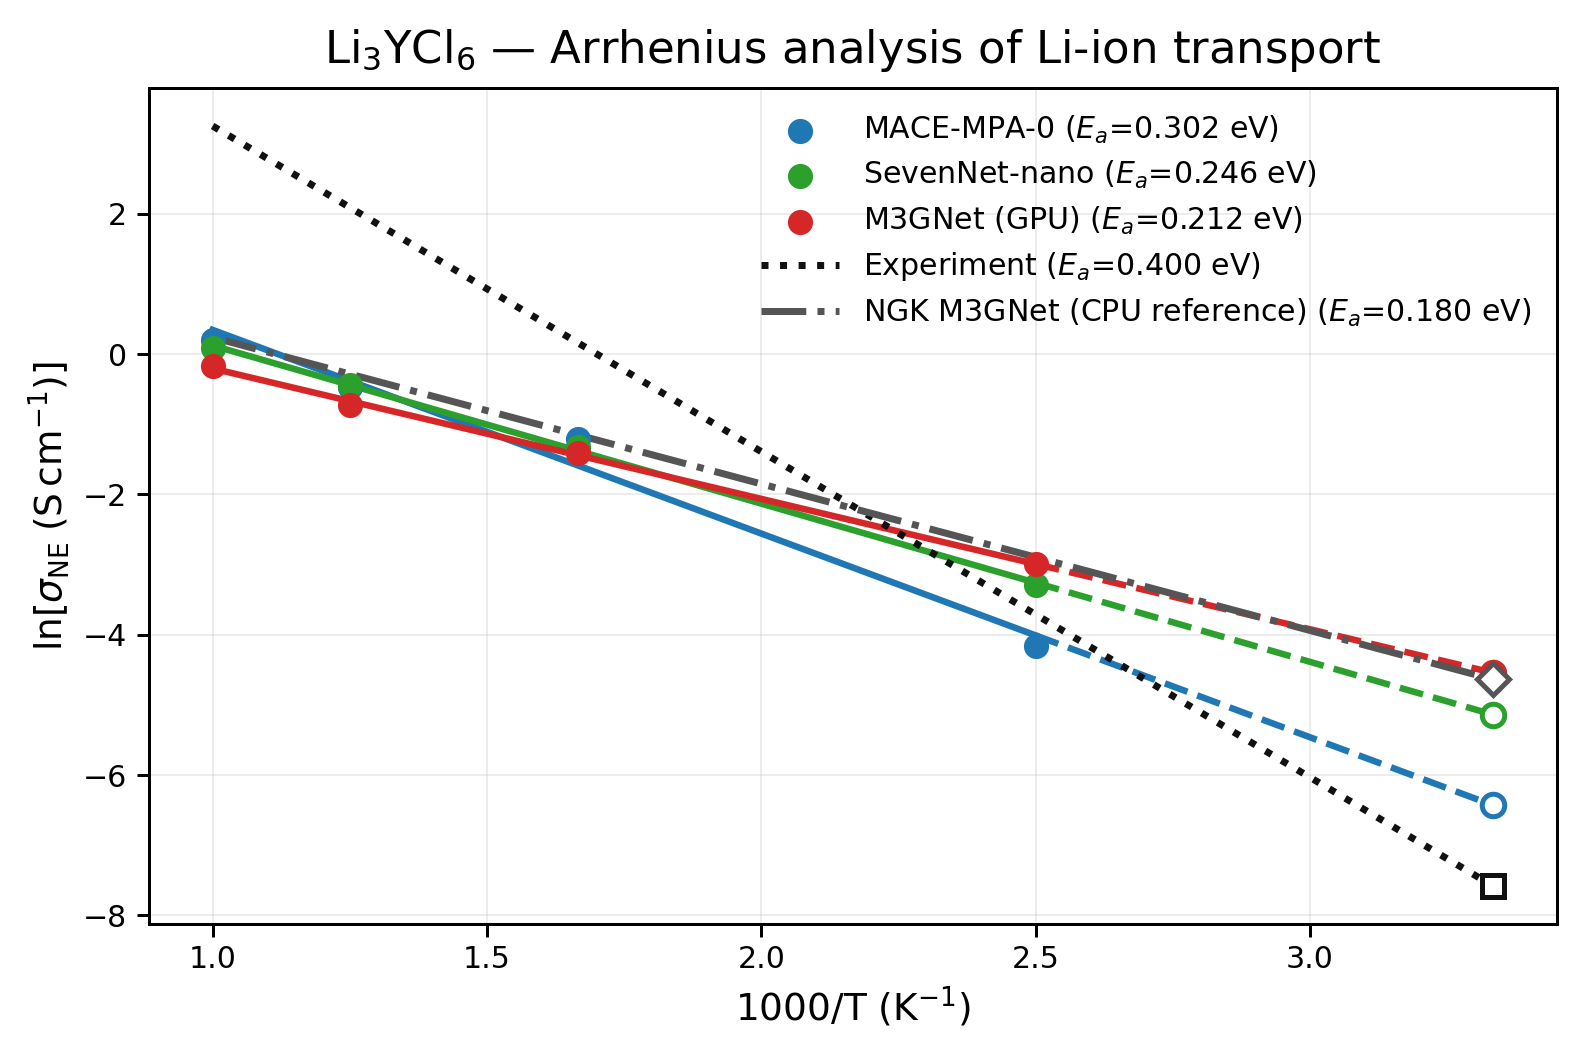
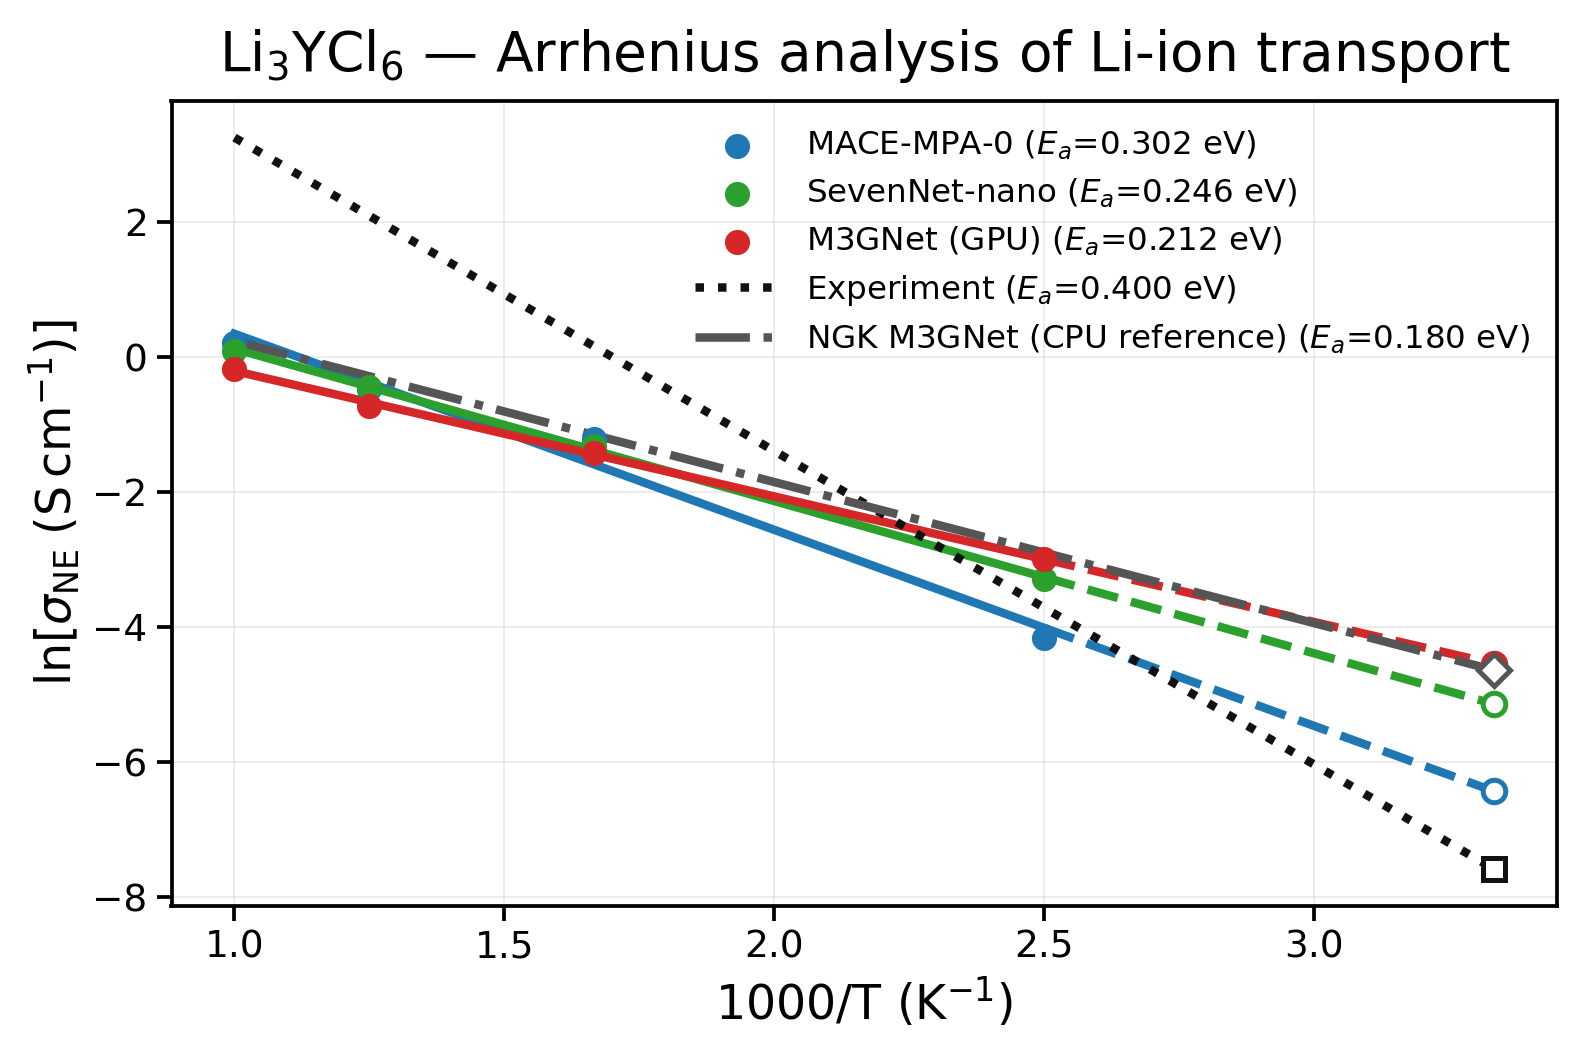
Increase Arrhenius figure typography and line weight

diff --git a/src/li_research/analysis/arrhenius/plot_li3ycl6_arrhenius_midterm.py b/src/li_research/analysis/arrhenius/plot_li3ycl6_arrhenius_midterm.py
@@ -22,12 +22,12 @@ for name, sigma, ea, color in models:
     y = np.log(sigma)
     slope, intercept = np.polyfit(x, y, 1)
     xx = np.linspace(x.min(), x.max(), 200)
-    ax.plot(xx, slope * xx + intercept, color=color, lw=2.6)
+    ax.plot(xx, slope * xx + intercept, color=color, lw=3.4)
     ax.scatter(x, y, color=color, s=82, zorder=3,
                label=fr"{name} ($E_a$={ea:.3f} eV)")
     x300 = 1000.0 / 300.0
     y300 = slope * x300 + intercept
-    ax.plot([x.max(), x300], [slope * x.max() + intercept, y300], color=color, lw=2.6, ls="--")
+    ax.plot([x.max(), x300], [slope * x.max() + intercept, y300], color=color, lw=3.4, ls="--")
     ax.plot(x300, y300, marker="o", ms=9, mfc="white", mec=color, mew=2.0)
 
 references = [
@@ -38,17 +38,17 @@ xx = np.linspace(1.0, 1000.0 / 300.0, 250)
 for name, sigma300, ea, color, marker, ls in references:
     y300 = np.log(sigma300)
     yline = y300 - (ea / kB) * (xx / 1000.0 - 1.0 / 300.0)
-    ax.plot(xx, yline, color=color, lw=2.8, ls=ls, label=fr"{name} ($E_a$={ea:.3f} eV)")
+    ax.plot(xx, yline, color=color, lw=3.4, ls=ls, label=fr"{name} ($E_a$={ea:.3f} eV)")
     ax.plot(1000.0 / 300.0, y300, marker=marker, ms=9, mfc="white", mec=color, mew=2.0)
 
-ax.set_title(r"Li$_3$YCl$_6$ — Arrhenius analysis of Li-ion transport", fontsize=18, pad=10)
-ax.set_xlabel(r"1000/T (K$^{-1}$)", fontsize=15)
-ax.set_ylabel(r"$\ln[\sigma_{\mathrm{NE}}\;(\mathrm{S\,cm^{-1}})]$", fontsize=15)
-ax.tick_params(labelsize=12, width=1.2, length=5)
+ax.set_title(r"Li$_3$YCl$_6$ — Arrhenius analysis of Li-ion transport", fontsize=22, pad=12)
+ax.set_xlabel(r"1000/T (K$^{-1}$)", fontsize=19)
+ax.set_ylabel(r"$\ln[\sigma_{\mathrm{NE}}\;(\mathrm{S\,cm^{-1}})]$", fontsize=19)
+ax.tick_params(labelsize=15, width=1.5, length=6)
 for spine in ax.spines.values():
-    spine.set_linewidth(1.2)
+    spine.set_linewidth(1.5)
 ax.grid(True, alpha=0.23)
-ax.legend(fontsize=12.0, loc="upper right", frameon=False,
+ax.legend(fontsize=13.0, loc="upper right", frameon=False,
           borderpad=0.35, labelspacing=0.45, handlelength=2.6)
 fig.tight_layout()
 for out in OUTS:
@@ -61,29 +61,29 @@ for name, sigma, ea, color in (models[0], models[2]):
     y = np.log(sigma)
     slope, intercept = np.polyfit(x, y, 1)
     xx = np.linspace(x.min(), x.max(), 200)
-    ax2.plot(xx, slope * xx + intercept, color=color, lw=2.6)
+    ax2.plot(xx, slope * xx + intercept, color=color, lw=3.4)
     ax2.scatter(x, y, color=color, s=82, zorder=3,
                 label=fr"{name} ($E_a$={ea:.3f} eV)")
     x300 = 1000.0 / 300.0
     y300 = slope * x300 + intercept
     ax2.plot([x.max(), x300], [slope * x.max() + intercept, y300],
-             color=color, lw=2.6, ls="--")
+             color=color, lw=3.4, ls="--")
     ax2.plot(x300, y300, marker="o", ms=9, mfc="white", mec=color, mew=2.0)
 for name, sigma300, ea, color, marker, ls in references:
     y300 = np.log(sigma300)
     yline = y300 - (ea / kB) * (xx / 1000.0 - 1.0 / 300.0)
-    ax2.plot(xx, yline, color=color, lw=2.8, ls=ls,
+    ax2.plot(xx, yline, color=color, lw=3.4, ls=ls,
              label=fr"{name} ($E_a$={ea:.3f} eV)")
     ax2.plot(1000.0 / 300.0, y300, marker=marker, ms=11,
              mfc="white", mec=color, mew=2.0)
-ax2.set_title(r"Li$_3$YCl$_6$ — Arrhenius analysis of Li-ion transport", fontsize=18, pad=10)
-ax2.set_xlabel(r"1000/T (K$^{-1}$)", fontsize=15)
-ax2.set_ylabel(r"$\ln[\sigma_{\mathrm{NE}}\;(\mathrm{S\,cm^{-1}})]$", fontsize=15)
-ax2.tick_params(labelsize=12, width=1.2, length=5)
+ax2.set_title(r"Li$_3$YCl$_6$ — Arrhenius analysis of Li-ion transport", fontsize=22, pad=12)
+ax2.set_xlabel(r"1000/T (K$^{-1}$)", fontsize=19)
+ax2.set_ylabel(r"$\ln[\sigma_{\mathrm{NE}}\;(\mathrm{S\,cm^{-1}})]$", fontsize=19)
+ax2.tick_params(labelsize=15, width=1.5, length=6)
 for spine in ax2.spines.values():
-    spine.set_linewidth(1.2)
+    spine.set_linewidth(1.5)
 ax2.grid(True, alpha=0.23)
-ax2.legend(fontsize=12.0, loc="upper right", frameon=False,
+ax2.legend(fontsize=13.0, loc="upper right", frameon=False,
            borderpad=0.35, labelspacing=0.45, handlelength=2.6)
 fig2.tight_layout()
 fig2.savefig(ROOT / "results/midterm_Li3YCl6_MACE_M3GNet/plots/Li3YCl6_Arrhenius_MACE_M3GNet_exp_company.png",
